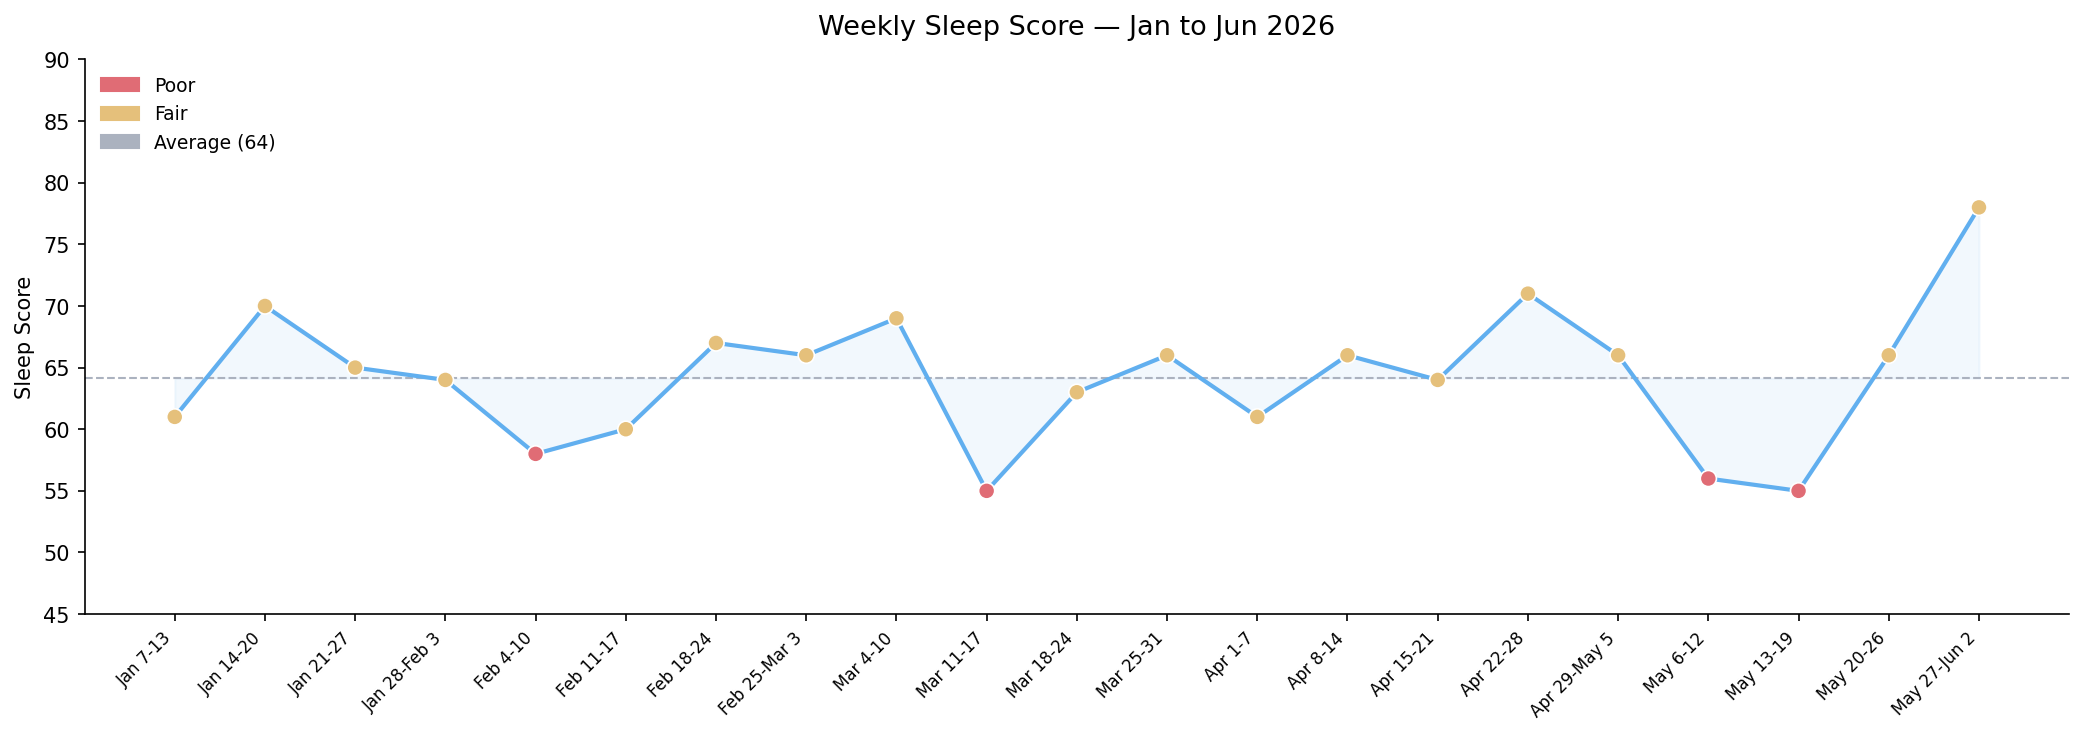
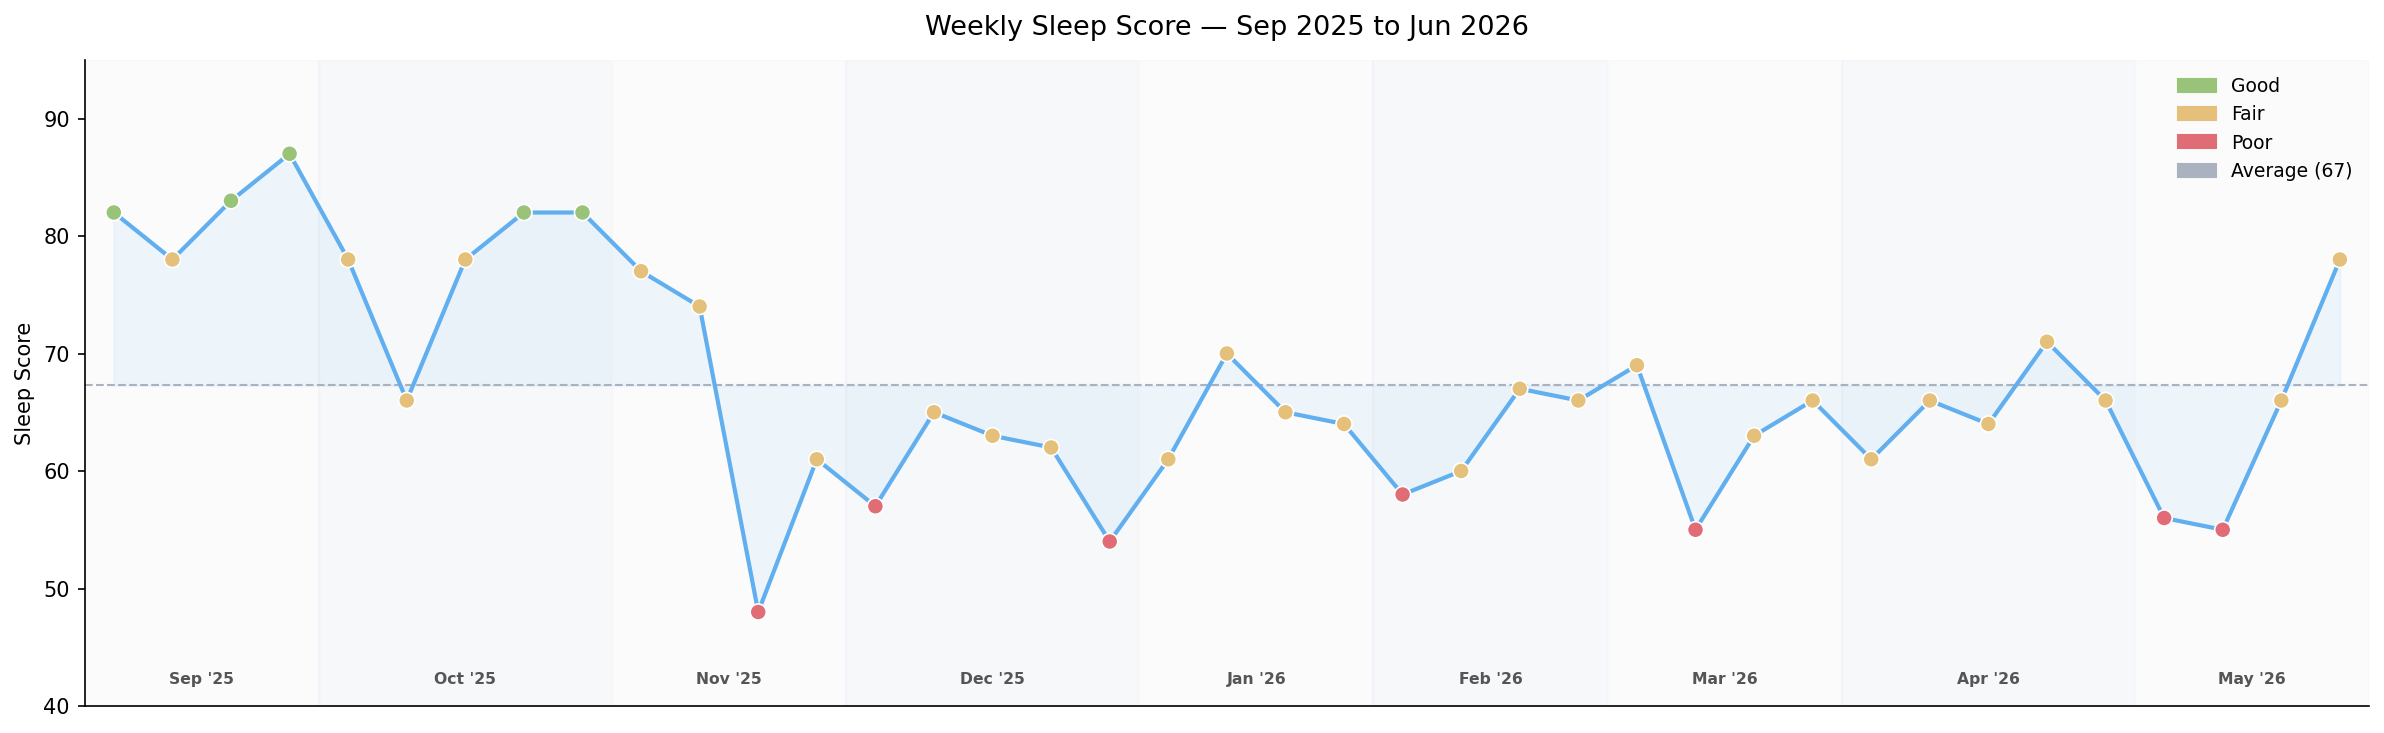
Updating racing repository

diff --git a/2026/06_ryzon_bonn_triathlon/data/generate_sleep_charts.py b/2026/06_ryzon_bonn_triathlon/data/generate_sleep_charts.py
@@ -6,25 +6,52 @@ import numpy as np
 
 OUTPUT = r'C:\Users\marco\Documents\Research\racing\2026\06_ryzon_bonn_triathlon\image'
 
-# Jan 7 – Jun 2, 2026 (start-of-week order)
+# Sep 3, 2025 – Jun 2, 2026 (chronological order)
 weeks = [
+    # ── Sep 2025 ──────────────────────────────────────────────────────────────
+    ("Sep 3-9",         82, "Good", 7*60+38, 8*60+ 7),
+    ("Sep 10-16",       78, "Fair", 7*60+22, 8*60+ 6),
+    ("Sep 17-23",       83, "Good", 7*60+54, 7*60+39),
+    ("Sep 24-30",       87, "Good", 8*60+ 3, 7*60+33),
+    # ── Oct 2025 ──────────────────────────────────────────────────────────────
+    ("Oct 1-7",         78, "Fair", 7*60+14, 8*60+ 0),
+    ("Oct 8-14",        66, "Fair", 7*60+22, 8*60+21),
+    ("Oct 15-21",       78, "Fair", 7*60+20, 8*60+16),
+    ("Oct 22-28",       82, "Good", 7*60+32, 7*60+23),
+    ("Oct 29-Nov 4",    82, "Good", 7*60+42, 8*60+ 0),
+    # ── Nov 2025 ──────────────────────────────────────────────────────────────
+    ("Nov 5-11",        77, "Fair", 7*60+45, 7*60+43),
+    ("Nov 12-18",       74, "Fair", 6*60+53, 8*60+ 0),
+    ("Nov 19-25",       48, "Poor", 3*60+42, 8*60+13),
+    ("Nov 26-Dec 2",    61, "Fair", 5*60+52, 8*60+17),
+    # ── Dec 2025 ──────────────────────────────────────────────────────────────
+    ("Dec 3-9",         57, "Poor", 5*60+14, 8*60+44),
+    ("Dec 10-16",       65, "Fair", 6*60+12, 8*60+53),
+    ("Dec 17-23",       63, "Fair", 5*60+44, 8*60+49),
+    ("Dec 24-30",       62, "Fair", 5*60+39, 8*60+40),
+    ("Dec 31-Jan 6",    54, "Poor", 5*60+11, 8*60+49),
+    # ── Jan 2026 ──────────────────────────────────────────────────────────────
     ("Jan 7-13",        61, "Fair", 5*60+29, 8*60+40),
     ("Jan 14-20",       70, "Fair", 5*60+42, 8*60+23),
     ("Jan 21-27",       65, "Fair", 5*60+43, 8*60+40),
     ("Jan 28-Feb 3",    64, "Fair", 5*60+50, 8*60+11),
+    # ── Feb 2026 ──────────────────────────────────────────────────────────────
     ("Feb 4-10",        58, "Poor", 5*60+ 5, 9*60+ 0),
     ("Feb 11-17",       60, "Fair", 5*60+59, 8*60+54),
     ("Feb 18-24",       67, "Fair", 5*60+55, 8*60+44),
     ("Feb 25-Mar 3",    66, "Fair", 6*60+ 8, 8*60+40),
+    # ── Mar 2026 ──────────────────────────────────────────────────────────────
     ("Mar 4-10",        69, "Fair", 6*60+ 3, 8*60+57),
     ("Mar 11-17",       55, "Poor", 5*60+41, 8*60+51),
     ("Mar 18-24",       63, "Fair", 5*60+59, 9*60+ 0),
     ("Mar 25-31",       66, "Fair", 6*60+51, 8*60+27),
+    # ── Apr 2026 ──────────────────────────────────────────────────────────────
     ("Apr 1-7",         61, "Fair", 6*60+52, 8*60+39),
     ("Apr 8-14",        66, "Fair", 6*60+18, 8*60+54),
     ("Apr 15-21",       64, "Fair", 6*60+27, 8*60+53),
     ("Apr 22-28",       71, "Fair", 6*60+54, 8*60+30),
     ("Apr 29-May 5",    66, "Fair", 6*60+19, 8*60+49),
+    # ── May 2026 ──────────────────────────────────────────────────────────────
     ("May 6-12",        56, "Poor", 5*60+53, 8*60+57),
     ("May 13-19",       55, "Poor", 6*60+19, 8*60+44),
     ("May 20-26",       66, "Fair", 6*60+40, 8*60+27),
@@ -40,43 +67,71 @@ dur_h    = [d / 60 for d in dur_min]
 need_h   = [n / 60 for n in need_min]
 x        = np.arange(len(weeks))
 
+# Month metadata: label, first week index, last week index
+month_meta = [
+    ("Sep '25",  0,  3),
+    ("Oct '25",  4,  8),
+    ("Nov '25",  9, 12),
+    ("Dec '25", 13, 17),
+    ("Jan '26", 18, 21),
+    ("Feb '26", 22, 25),
+    ("Mar '26", 26, 29),
+    ("Apr '26", 30, 34),
+    ("May '26", 35, 38),
+]
+month_band_colors = ["#f8f9fa", "#eef2f7"]
+
 quality_colors = {"Poor": "#e06c75", "Fair": "#e5c07b", "Good": "#98c379"}
 bar_colors = [quality_colors[q] for q in quality]
 
-FONT = {"family": "DejaVu Sans"}
 plt.rcParams.update({"font.family": "DejaVu Sans", "axes.spines.top": False, "axes.spines.right": False})
 
+
+def add_month_bands(ax, meta, band_colors, y_label=True, ylim=None):
+    """Draw alternating background bands and month labels."""
+    for i, (name, start, end) in enumerate(meta):
+        ax.axvspan(start - 0.5, end + 0.5, color=band_colors[i % 2], alpha=0.5, zorder=0)
+        mid = (start + end) / 2
+        y_pos = (ylim[0] + (ylim[1] - ylim[0]) * 0.03) if ylim else ax.get_ylim()[0]
+        ax.text(mid, y_pos, name, ha="center", va="bottom", fontsize=7.5,
+                color="#555", fontweight="bold", zorder=5)
+    ax.set_xticks([])
+
+
 # ── Chart 1: Sleep Score Trend ───────────────────────────────────────────────
-fig, ax = plt.subplots(figsize=(14, 5))
+fig, ax = plt.subplots(figsize=(16, 5))
+add_month_bands(ax, month_meta, month_band_colors, ylim=(40, 95))
 ax.plot(x, scores, color="#61afef", linewidth=2, zorder=3)
 ax.scatter(x, scores, c=bar_colors, s=60, zorder=4, edgecolors="white", linewidth=0.8)
-ax.axhline(np.mean(scores), color="#abb2bf", linewidth=1, linestyle="--", label=f"Avg {np.mean(scores):.0f}")
-ax.fill_between(x, scores, np.mean(scores), alpha=0.08, color="#61afef")
-ax.set_xticks(x)
-ax.set_xticklabels(labels, rotation=45, ha="right", fontsize=8)
+avg = np.mean(scores)
+ax.axhline(avg, color="#abb2bf", linewidth=1, linestyle="--", zorder=2)
+ax.fill_between(x, scores, avg, alpha=0.08, color="#61afef", zorder=1)
 ax.set_ylabel("Sleep Score")
-ax.set_title("Weekly Sleep Score — Jan to Jun 2026", fontsize=13, pad=12)
-ax.set_ylim(45, 90)
+ax.set_title("Weekly Sleep Score — Sep 2025 to Jun 2026", fontsize=13, pad=12)
+ax.set_ylim(40, 95)
+ax.set_xlim(-0.5, len(weeks) - 0.5)
 legend_patches = [
-    mpatches.Patch(color=quality_colors["Poor"], label="Poor"),
+    mpatches.Patch(color=quality_colors["Good"], label="Good"),
     mpatches.Patch(color=quality_colors["Fair"], label="Fair"),
-    mpatches.Patch(color="#abb2bf", label=f"Average ({np.mean(scores):.0f})"),
+    mpatches.Patch(color=quality_colors["Poor"], label="Poor"),
+    mpatches.Patch(color="#abb2bf", label=f"Average ({avg:.0f})"),
 ]
-ax.legend(handles=legend_patches, loc="upper left", frameon=False, fontsize=9)
+ax.legend(handles=legend_patches, loc="upper right", frameon=False, fontsize=9)
 plt.tight_layout()
 plt.savefig(f"{OUTPUT}/sleep_score_trend.png", dpi=150, bbox_inches="tight")
 plt.close()
 print("Saved sleep_score_trend.png")
 
 # ── Chart 2: Duration vs Sleep Need (weekly) ─────────────────────────────────
-fig, ax = plt.subplots(figsize=(14, 5))
-w = 0.38
-ax.bar(x - w/2, dur_h,  width=w, color="#61afef", label="Actual Duration", alpha=0.9)
-ax.bar(x + w/2, need_h, width=w, color="#abb2bf", label="Sleep Need",      alpha=0.6)
-ax.set_xticks(x)
-ax.set_xticklabels(labels, rotation=45, ha="right", fontsize=8)
+fig, ax = plt.subplots(figsize=(16, 5))
+add_month_bands(ax, month_meta, month_band_colors, ylim=(0, 10.5))
+bw = 0.38
+ax.bar(x - bw/2, dur_h,  width=bw, color="#61afef", label="Actual Duration", alpha=0.9, zorder=3)
+ax.bar(x + bw/2, need_h, width=bw, color="#abb2bf", label="Sleep Need",      alpha=0.7, zorder=3)
 ax.set_ylabel("Hours")
-ax.set_title("Sleep Duration vs Sleep Need — Jan to Jun 2026", fontsize=13, pad=12)
+ax.set_title("Sleep Duration vs Sleep Need — Sep 2025 to Jun 2026", fontsize=13, pad=12)
+ax.set_ylim(0, 10.5)
+ax.set_xlim(-0.5, len(weeks) - 0.5)
 ax.legend(frameon=False, fontsize=9)
 plt.tight_layout()
 plt.savefig(f"{OUTPUT}/sleep_duration_vs_need.png", dpi=150, bbox_inches="tight")
@@ -84,53 +139,58 @@ plt.close()
 print("Saved sleep_duration_vs_need.png")
 
 # ── Chart 3: Monthly averages ─────────────────────────────────────────────────
-months = ["Jan", "Feb", "Mar", "Apr", "May"]
-monthly = {
-    "Jan": [0, 1, 2, 3],
-    "Feb": [4, 5, 6, 7],
-    "Mar": [8, 9, 10, 11],
-    "Apr": [12, 13, 14, 15, 16],
-    "May": [17, 18, 19, 20],
-}
-avg_score = [np.mean([scores[i] for i in idx]) for idx in monthly.values()]
-avg_dur   = [np.mean([dur_h[i]  for i in idx]) for idx in monthly.values()]
-avg_need  = [np.mean([need_h[i] for i in idx]) for idx in monthly.values()]
+month_labels = [m[0] for m in month_meta]
+monthly_indices = {m[0]: list(range(m[1], m[2] + 1)) for m in month_meta}
 
-fig, (ax1, ax2) = plt.subplots(1, 2, figsize=(13, 5))
+avg_score = [np.mean([scores[i] for i in idx]) for idx in monthly_indices.values()]
+avg_dur   = [np.mean([dur_h[i]  for i in idx]) for idx in monthly_indices.values()]
+avg_need  = [np.mean([need_h[i] for i in idx]) for idx in monthly_indices.values()]
 
-mx = np.arange(len(months))
-ax1.bar(mx, avg_score, color="#61afef", alpha=0.9, width=0.5)
+fig, (ax1, ax2) = plt.subplots(1, 2, figsize=(15, 5))
+mx = np.arange(len(month_labels))
+
+ax1.bar(mx, avg_score, color="#61afef", alpha=0.9, width=0.55)
 for i, v in enumerate(avg_score):
-    ax1.text(i, v + 0.5, f"{v:.0f}", ha="center", va="bottom", fontsize=10, fontweight="bold")
-ax1.set_xticks(mx); ax1.set_xticklabels(months)
-ax1.set_ylim(0, 85)
+    ax1.text(i, v + 0.5, f"{v:.0f}", ha="center", va="bottom", fontsize=9, fontweight="bold")
+ax1.set_xticks(mx)
+ax1.set_xticklabels(month_labels, rotation=30, ha="right", fontsize=9)
+ax1.set_ylim(0, 95)
 ax1.set_ylabel("Average Score")
 ax1.set_title("Monthly Avg Sleep Score", fontsize=12, pad=10)
 
-w = 0.38
-ax2.bar(mx - w/2, avg_dur,  width=w, color="#61afef", label="Actual", alpha=0.9)
-ax2.bar(mx + w/2, avg_need, width=w, color="#abb2bf", label="Need",   alpha=0.6)
+bw = 0.38
+ax2.bar(mx - bw/2, avg_dur,  width=bw, color="#61afef", label="Actual", alpha=0.9)
+ax2.bar(mx + bw/2, avg_need, width=bw, color="#abb2bf", label="Need",   alpha=0.7)
 for i, (d, n) in enumerate(zip(avg_dur, avg_need)):
-    ax2.text(i - w/2, d + 0.05, f"{d:.1f}h", ha="center", va="bottom", fontsize=8)
-    ax2.text(i + w/2, n + 0.05, f"{n:.1f}h", ha="center", va="bottom", fontsize=8)
-ax2.set_xticks(mx); ax2.set_xticklabels(months)
+    ax2.text(i - bw/2, d + 0.05, f"{d:.1f}h", ha="center", va="bottom", fontsize=8)
+    ax2.text(i + bw/2, n + 0.05, f"{n:.1f}h", ha="center", va="bottom", fontsize=8)
+ax2.set_xticks(mx)
+ax2.set_xticklabels(month_labels, rotation=30, ha="right", fontsize=9)
 ax2.set_ylabel("Hours")
 ax2.set_title("Monthly Avg Duration vs Need", fontsize=12, pad=10)
 ax2.legend(frameon=False, fontsize=9)
 
-fig.suptitle("Monthly Sleep Summary — Jan to May 2026", fontsize=13, y=1.01)
+fig.suptitle("Monthly Sleep Summary — Sep 2025 to May 2026", fontsize=13, y=1.01)
 plt.tight_layout()
 plt.savefig(f"{OUTPUT}/sleep_monthly_summary.png", dpi=150, bbox_inches="tight")
 plt.close()
 print("Saved sleep_monthly_summary.png")
 
 # ── Print stats for README ────────────────────────────────────────────────────
-print(f"\nOverall avg score:    {np.mean(scores):.1f}")
+print(f"\nTotal weeks:          {len(weeks)}")
+print(f"Overall avg score:    {np.mean(scores):.1f}")
 print(f"Overall avg duration: {np.mean(dur_h):.2f}h  ({np.mean(dur_min):.0f} min)")
-print(f"Best week:  {labels[np.argmax(scores)]} ({max(scores)})")
-print(f"Worst week: {labels[np.argmin(scores)]} ({min(scores)})")
-print(f"Poor weeks: {quality.count('Poor')}/{len(quality)}")
-print(f"Fair weeks: {quality.count('Fair')}/{len(quality)}")
+deficit_h = np.mean(need_h) - np.mean(dur_h)
+print(f"Overall avg deficit:  {deficit_h:.2f}h  ({deficit_h*60:.0f} min)")
+print(f"Best week:  {labels[int(np.argmax(scores))]} ({max(scores)})")
+print(f"Worst week: {labels[int(np.argmin(scores))]} ({min(scores)})")
 print(f"Good weeks: {quality.count('Good')}/{len(quality)}")
-print(f"\nMonthly avg scores: { {m: round(s,1) for m,s in zip(months, avg_score)} }")
-print(f"Monthly avg duration: { {m: round(d,2) for m,d in zip(months, avg_dur)} }")
+print(f"Fair weeks: {quality.count('Fair')}/{len(quality)}")
+print(f"Poor weeks: {quality.count('Poor')}/{len(quality)}")
+print("\nMonthly breakdown:")
+for name, idx in monthly_indices.items():
+    s = np.mean([scores[i] for i in idx])
+    d = np.mean([dur_min[i] for i in idx])
+    n = np.mean([need_min[i] for i in idx])
+    def_ = n - d
+    print(f"  {name}: score {s:.1f}, duration {d//60:.0f}h{d%60:.0f}min, deficit {def_//60:.0f}h{def_%60:.0f}min")

diff --git a/2026/06_ryzon_bonn_triathlon/README.md b/2026/06_ryzon_bonn_triathlon/README.md
@@ -35,35 +35,39 @@ Training volume:
 
 Average of **TBD hours per week**.
 
-## Sleep Analysis (Jan – May 2026)
+## Sleep Analysis (Sep 2025 – May 2026)
 
-Data source: `data/Sleep.csv` (21 weeks, Jan 7 – Jun 2, 2026).
+Data source: `data/Sleep.csv` (39 weeks, Sep 3, 2025 – Jun 2, 2026).
 
 ### Summary
 
 | Metric | Value |
 | --- | --- |
-| Average sleep score | **64.1 / 100** |
-| Average nightly duration | **6h 10min** |
-| Average sleep need | **8h 41min** |
-| Average nightly deficit | **~2h 30min** |
-| Best week | May 27 – Jun 2 (score **78**) |
-| Worst week | Mar 11–17 (score **55**) |
-| Quality distribution | 0 Good · 17 Fair · 4 Poor |
+| Average sleep score | **67.3 / 100** |
+| Average nightly duration | **6h 24min** |
+| Average sleep need | **8h 28min** |
+| Average nightly deficit | **~2h 04min** |
+| Best week | Sep 24–30, 2025 (score **87**) |
+| Worst week | Nov 19–25, 2025 (score **48**) |
+| Quality distribution | 5 Good · 27 Fair · 7 Poor |
 
-No week in the entire training window reached a "Good" quality rating. The chronic ~2h30min nightly sleep deficit is the most significant finding of this period.
+All 5 "Good" weeks occurred in September–October 2025 (post-race recovery window). From November 2025 onwards, quality never exceeded "Fair".
 
 ### Monthly Breakdown
 
 | Month | Avg Score | Avg Duration | Avg Need | Deficit |
 | --- | --- | --- | --- | --- |
-| January | 65.0 | 5h 41min | 8h 29min | ~2h 48min |
-| February | 62.8 | 5h 47min | 8h 50min | ~3h 03min |
-| March | 63.2 | 6h 08min | 8h 49min | ~2h 41min |
-| April | 65.6 | 6h 34min | 8h 45min | ~2h 11min |
-| May | 63.8 | 6h 31min | 8h 39min | ~2h 08min |
+| Sep 2025 | **82.5** | 7h 44min | 7h 51min | ~0h 07min |
+| Oct 2025 | 77.2 | 7h 26min | 8h 00min | ~0h 34min |
+| Nov 2025 | 65.0 | 6h 03min | 8h 03min | ~2h 00min |
+| Dec 2025 | 60.2 | 5h 36min | 8h 45min | ~3h 11min |
+| Jan 2026 | 65.0 | 5h 41min | 8h 29min | ~2h 48min |
+| Feb 2026 | 62.8 | 5h 47min | 8h 50min | ~3h 03min |
+| Mar 2026 | 63.2 | 6h 08min | 8h 49min | ~2h 40min |
+| Apr 2026 | 65.6 | 6h 34min | 8h 45min | ~2h 11min |
+| May 2026 | 63.8 | 6h 31min | 8h 39min | ~2h 06min |
 
-Sleep duration improved meaningfully from January (5h 41min) to April (6h 34min), coinciding with the heavier training load. Scores, however, remained flat across all months (62–66 range), suggesting that longer sleep alone didn't improve quality.
+September 2025 was near-perfect (score 82.5, only 7 minutes short of sleep need), coinciding with post-race recovery after Challenge Almere-Amsterdam. The collapse started in November with a dramatic single week of only 3h 42min (Nov 19–25). December hit the lowest monthly average (60.2), driven by a 3h+ nightly deficit. The training cycle from January onwards never recovered to Sep/Oct levels, plateauing around 63–66.
 
 ### Charts
 
@@ -75,12 +79,12 @@ Sleep duration improved meaningfully from January (5h 41min) to April (6h 34min)
 
 ### Key Insights
 
-- **Persistent sleep deficit**: averaging 2h30min short every night over 5 months is significant and likely impacted recovery and training adaptations;
-- **No "Good" weeks**: quality never exceeded "Fair" — something to address before the next training cycle;
-- **February was the worst month** for both score (62.8) and duration (5h 47min), aligning with the period of shortest days and lowest light exposure;
-- **April showed the best balance**: highest score (65.6) and longest duration (6h 34min), suggesting training load and sleep were better aligned;
-- **Late bedtime in January**: avg bedtime was ~3:30 AM, shifting to ~0:40 AM by May — a 3-hour improvement that likely contributed to the duration gains;
-- **Actionable target**: reaching 7h30min nightly would close most of the deficit and would likely push scores into the "Good" range.
+- **Post-race sleep was excellent**: the Sep–Oct 2025 window (recovery from Almere) produced the best sleep of the entire period — 82.5 avg score, near-zero deficit, 5 "Good" weeks;
+- **Sharp November cliff**: score dropped 17 points in a single month (Oct 77.2 → Nov 65.0), anchored by one catastrophic week (48 score, 3h 42min sleep) — likely an outlier event worth investigating;
+- **December was the floor**: lowest monthly score (60.2) and longest nightly deficit (3h 11min), aligning with darkest days and probable late-night schedule drift;
+- **Bedtime shift**: avg bedtime drifted to ~2–3 AM in Dec–Jan, gradually recovering to ~0:40 AM by May — a 3-hour improvement that drove most of the duration gains in the training cycle;
+- **Training cycle plateau**: despite duration improving from Jan (5h 41min) to Apr (6h 34min), scores stayed flat at 63–66 — longer sleep wasn't translating to better quality;
+- **Actionable target**: reaching 7h 30min consistently would bring the deficit under 1 hour and would likely push monthly scores back toward 75+, matching the Sep/Oct baseline.
 
 ---
 